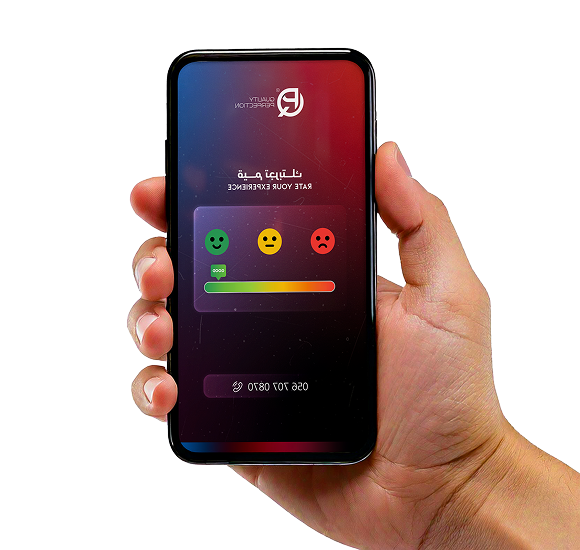
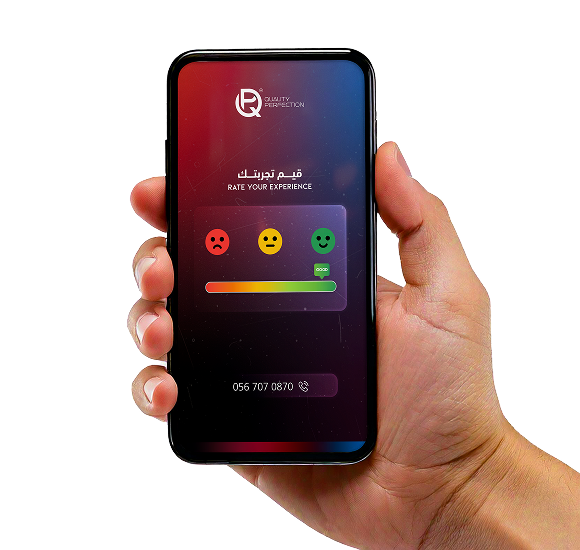
add english images

Changed region(s): [[0.2793, 0.0927, 0.6517, 0.8345]]

diff --git a/front/about.html b/front/about.html
@@ -169,8 +169,9 @@
 
           <!-- ================= START IMAGE ABOUT ================= -->
           <div class="image-about  md:pt-16! md:ms-15!" data-aos="fade-down">
-            <img src="{% static 'images/about-image.png' %}" alt="about us" class="w-full h-full object-cover"
-              loading="lazy" />
+            <img
+              src="{% if request.LANGUAGE_CODE == 'ar' %}{% static 'images/about-image.png' %}{% else %}{% static 'images/about-image-ltr.png' %}{% endif %}"
+              alt="about us" class="w-full h-full object-cover" loading="lazy" />
             <!-- ================= END IMAGE ABOUT ================= -->
 
           </div>
